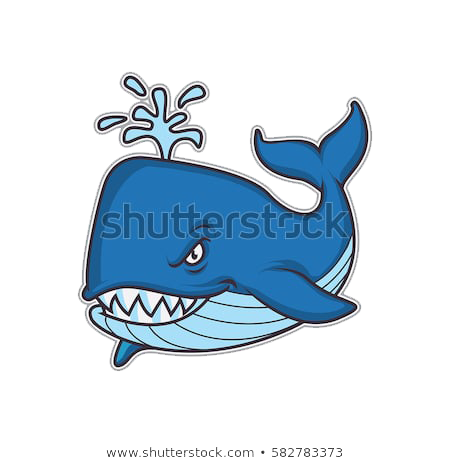
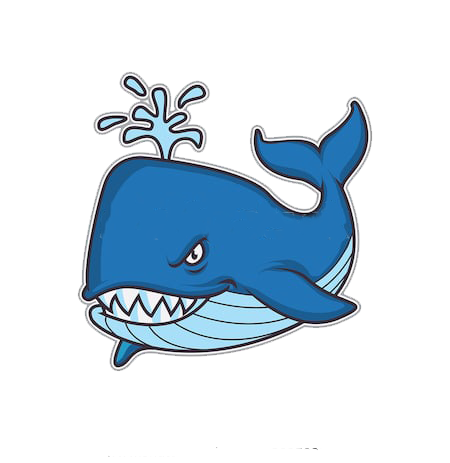
baleine cosmique!

Changed region(s): [[0.2178, 0.4233, 0.7778, 0.514], [0.2489, 0.9676, 0.7778, 0.9978]]

diff --git a/Orion_vue.py b/Orion_vue.py
@@ -140,6 +140,11 @@ class Vue():
         self.resized = self.def1.resize((35, 35),Image.ANTIALIAS)
         self.tourDefense = ImageTk.PhotoImage(self.resized)
 
+        #Baleine cosmique
+        self.baleine=Image.open("./images/baleine.png")
+        self.resized = self.baleine.resize((150, 150),Image.ANTIALIAS)
+        self.baleine = ImageTk.PhotoImage(self.resized)
+
         #Navette
         #self.navette = Image.open("./images/navette1.png")
         #self.resized = self.elec1.resize((50,50),Image.ANTIALIAS)
@@ -899,7 +904,8 @@ class Vue():
         #    self.canevas.delete("marqueur")
         if self.vueactive == 2:
             self.canevas.delete("baleine")
-            self.canevas.create_rectangle(mod.baleine.x-50,mod.baleine.y-50,mod.baleine.x+50,mod.baleine.y+50,fill="blue",tags="baleine")
+            #self.canevas.create_rectangle(mod.baleine.x-50,mod.baleine.y-50,mod.baleine.x+50,mod.baleine.y+50,fill="blue",tags="baleine")
+            self.canevas.create_image(mod.baleine.x, mod.baleine.y, image=self.baleine, anchor=CENTER, tags="baleine")
 
         for i in self.mod.joueurs.keys():
             i=mod.joueurs[i]
